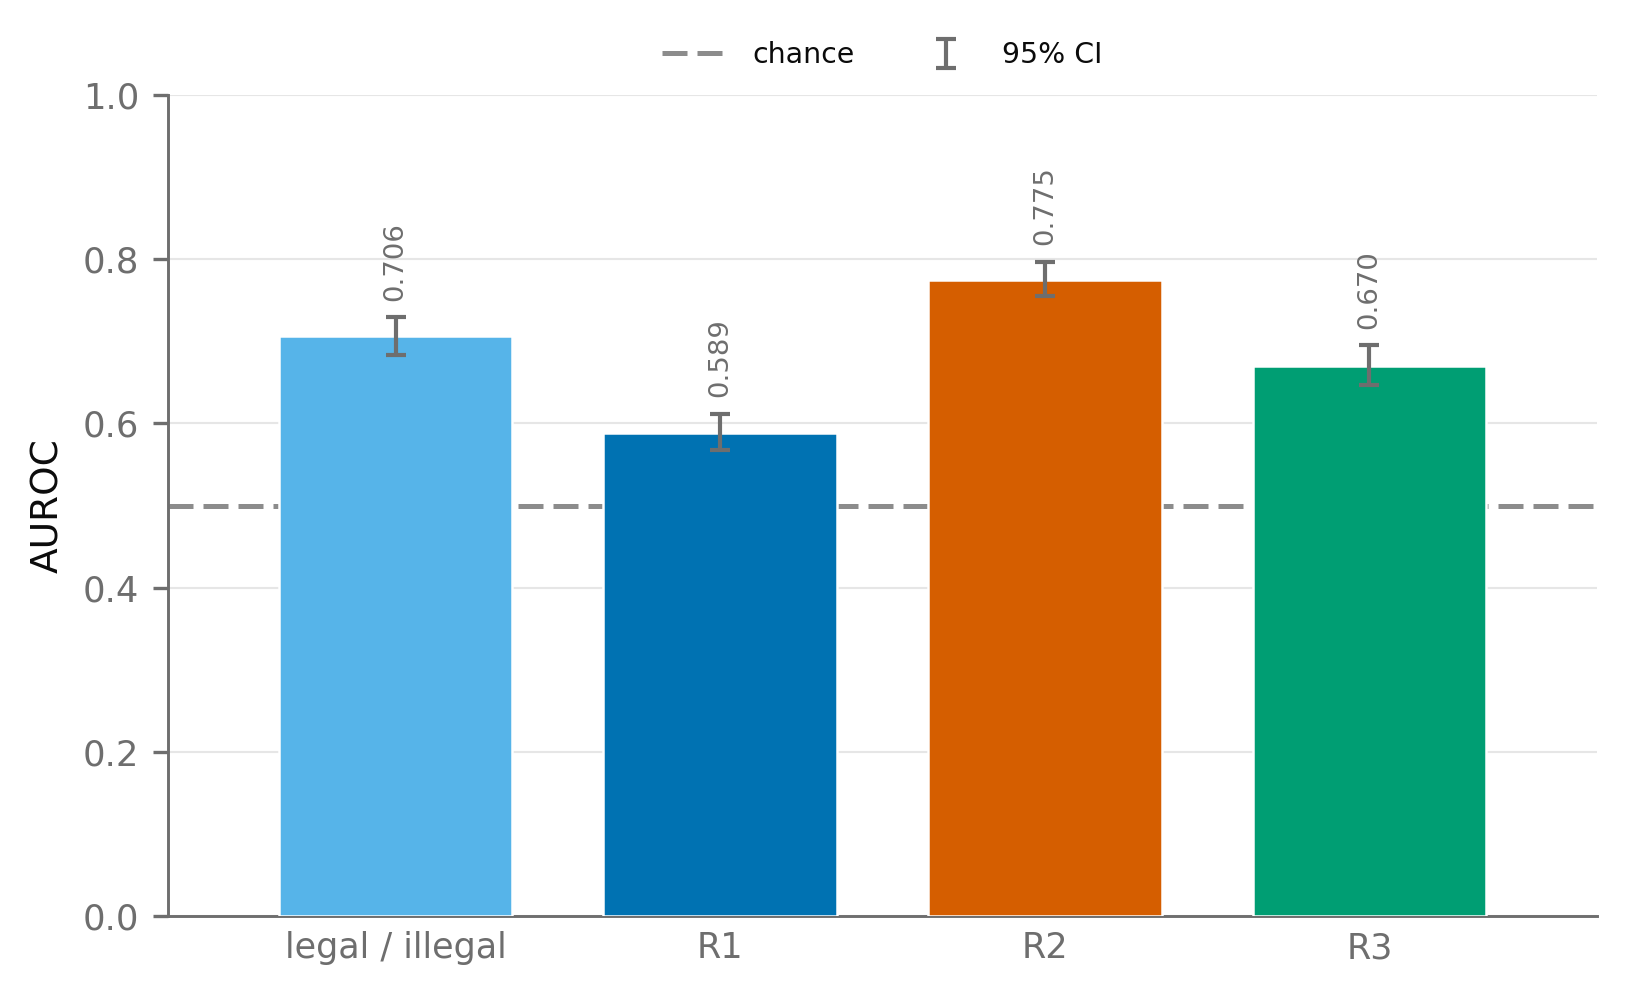
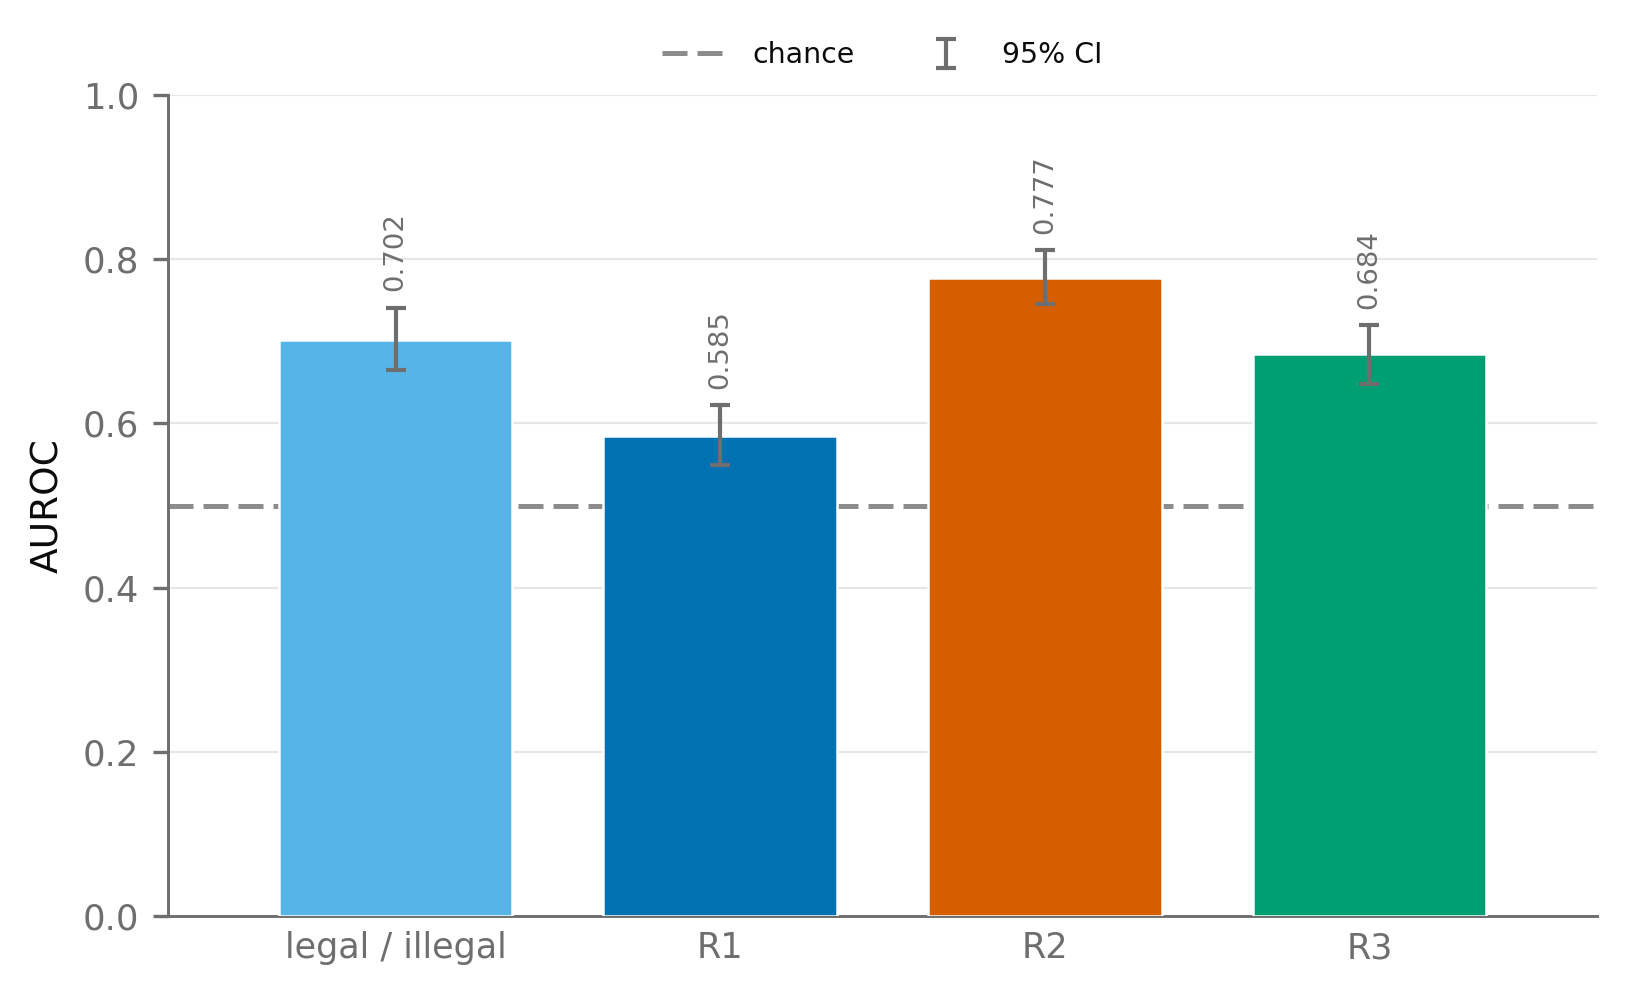
detector figures: n capped at move_legality's 200 per class
detector.PER_T0 = 9 games per t0 position, n = 189 for both population
figures. The bar chart these are read beside carries 200 games per bar --
its "n = 1000" is 1000 dealt over five disjoint groups -- and 200/21
positions is not an integer, so 189 is the largest uniform sample at or
under it.

The cap is comparability, not availability: the corpus supports 22 per
position, n = 462, and the intervals widen by about 1.6x for the cap.
PER_T0 = 22 spends them again.

diff --git a/analysis/violation_divergence/illegal_move_detector/detector.py b/analysis/violation_divergence/illegal_move_detector/detector.py
@@ -37,6 +37,11 @@ SEED = 42
 N_LEGAL = 2000                          # the straightness legal block
 RULES = ["R1", "R2", "R3"]
 ARMS = ["illegal", *RULES]
+# Games per t0 in the population figures. 9 x 21 positions = 189, the largest uniform sample
+# at or under the 200 games per condition of `move_legality.detection_auroc`, whose bar chart
+# these panels are read beside. The pool allows 22 (n = 462); the cap is comparability, not
+# availability, and it costs interval width.
+PER_T0 = 9
 
 # One game for the board panel and the trace beside it. Picked by `select_game.py`: all three
 # rules have a branch at its t0, t0 sits far enough inside the band that +-5 plies stay on the
@@ -80,7 +85,7 @@ def arms(data: dict, seed: int = SEED) -> dict[str, np.ndarray]:
     return {k: v.numpy() for k, v in localize.arms(meta, seed).items()}
 
 
-def stratified(data: dict, sel: dict) -> np.ndarray:
+def stratified(data: dict, sel: dict, per_t0: int = PER_T0) -> np.ndarray:
     """Positions into every arm's index array: the same number of games at every t0.
 
     The tree is not balanced on move index -- `extend_branches` forked 1,666 of its games at
@@ -88,13 +93,12 @@ def stratified(data: dict, sel: dict) -> np.ndarray:
     and move index is the strongest nuisance this tree has. An equal quota per t0 makes the
     sample flat across the range, the way `move_legality.detection_auroc` deals its groups.
 
-    The quota is the smallest stratum, so n is that times the number of t0 values and grows
-    on its own if the tree is extended at the sparse positions. Within a stratum the games are
-    the first by sorted game_id: a stated prefix that reproduces without a seed.
+    The quota is `per_t0`, or the smallest stratum when that is smaller. Within a stratum the
+    games are the first by sorted game_id: a stated prefix that reproduces without a seed.
     """
     game, t0 = data["game_id"][sel["reference"]], data["t0"][sel["reference"]]
     values = np.unique(t0)
-    quota = min(int((t0 == v).sum()) for v in values)
+    quota = min(per_t0, *(int((t0 == v).sum()) for v in values))
     keep = [np.flatnonzero(t0 == v)[np.argsort(game[t0 == v], kind="stable")][:quota]
             for v in values]
     return np.sort(np.concatenate(keep))

diff --git a/analysis/violation_divergence/illegal_move_detector/README.md b/analysis/violation_divergence/illegal_move_detector/README.md
@@ -52,8 +52,8 @@ out of the baseline it is scored against.
 |---|---|
 | `board_states.png` | the board at *t0*−2 … *t0*+2 of game 3889: the legal move played at each of the four surrounding plies, and the illegal move the drawn branch plays at *t0* |
 | `detector_trace.png` | the detector score for that same game over moves *t0*−5 … *t0*+5, three rule arms against the matched legal control, with τ |
-| `auroc_by_rule.png` | AUROC at *t0*, illegal branch against the same game's legal control, pooled and per rule, n = 462 games |
-| `score_histograms.png` | the distributions that AUROC summarizes: the score at *t0* for legal, illegal, R1, R2, R3, the same 462 games, with τ |
+| `auroc_by_rule.png` | AUROC at *t0*, illegal branch against the same game's legal control, pooled and per rule, n = 189 games |
+| `score_histograms.png` | the distributions that AUROC summarizes: the score at *t0* for legal, illegal, R1, R2, R3, the same 189 games, with τ |
 
 Band semantics: every interval is a 95% percentile bootstrap over **source games** as
 clusters, 1,000 resamples, seed 42 — games and never positions, because one game's candidates
@@ -95,7 +95,7 @@ score at that game's own *t0*, one value per branch. `legal / illegal` is the po
 illegal branch per game); R1/R2/R3 are that same arm split by rule.
 
 **The evaluation set is flat over *t0*.** `detector.stratified` takes an equal quota of games
-at every *t0* in the scored range — **22 games at each of 14…34, n = 462** — because the tree
+at every *t0* in the scored range — **9 games at each of 14…34, n = 189** — because the tree
 is not balanced on move index: `extend_branches.py` forked 1,665 of its 2,278 eligible games at
 *t0* = 20 and about 30 at each other value, so any prefix of game ids is ~46% one position, and
 move index is the strongest nuisance variable this tree has. `move_legality.detection_auroc`
@@ -106,10 +106,16 @@ deals its groups the same way.
 a choice: its score is a MOSUM over *M*max = 12 steps either side of a candidate, so no score
 exists below move 14, while the probe reads one position's activations and can be evaluated
 anywhere. The quota is the smallest stratum (22 games, at *t0* = 32 and 33), which is what caps
-n at 462: outside *t0* = 20 the whole tree holds 613 eligible games. n grows on its own if the
-tree is extended at the sparse positions.
+n: outside *t0* = 20 the whole tree holds 613 eligible games, 22 at the thinnest position, so
+the largest uniform sample this corpus supports is 22 × 21 = 462.
 
-`score_histograms` — same corpus, same eligibility, same statistic and the **same 462
+**n is capped below that, at `detector.PER_T0` = 9 per position.** The cap exists so these
+panels carry the same per-class n as `move_legality.detection_auroc`'s bars, which are 200
+games each; 200 / 21 positions is not an integer, so 9 × 21 = 189 is the largest uniform sample
+at or under it. This is a comparability choice and it costs interval width — the pool would
+give 2.4× the games. Raise `PER_T0` to 22 to spend them.
+
+`score_histograms` — same corpus, same eligibility, same statistic and the **same 189
 games** as `auroc_by_rule`, on five arms held aligned game by game (asserted on `game_id` and
 on *t0*). So the panel is literally the distribution those bars summarize, which it was not
 while the two drew different prefixes of the tree.
@@ -144,7 +150,7 @@ judgement of those moves.
 whether the cut fires — and `score_histograms` shows the same thing at population scale: 29% of
 legal controls sit above τ.
 
-**R2 ≫ R3 ≫ R1**, at 0.775 / 0.670 / 0.589 AUROC. Playing on an already-occupied square is
+**R2 ≫ R3 ≫ R1**, at 0.777 / 0.684 / 0.585 AUROC. Playing on an already-occupied square is
 the hardest violation for this score to see, barely clearing chance. That is the same ordering
 the supervised probe in `analysis/move_legality` finds by an unrelated route, where
 `occupied_opp` is likewise its worst cell.
